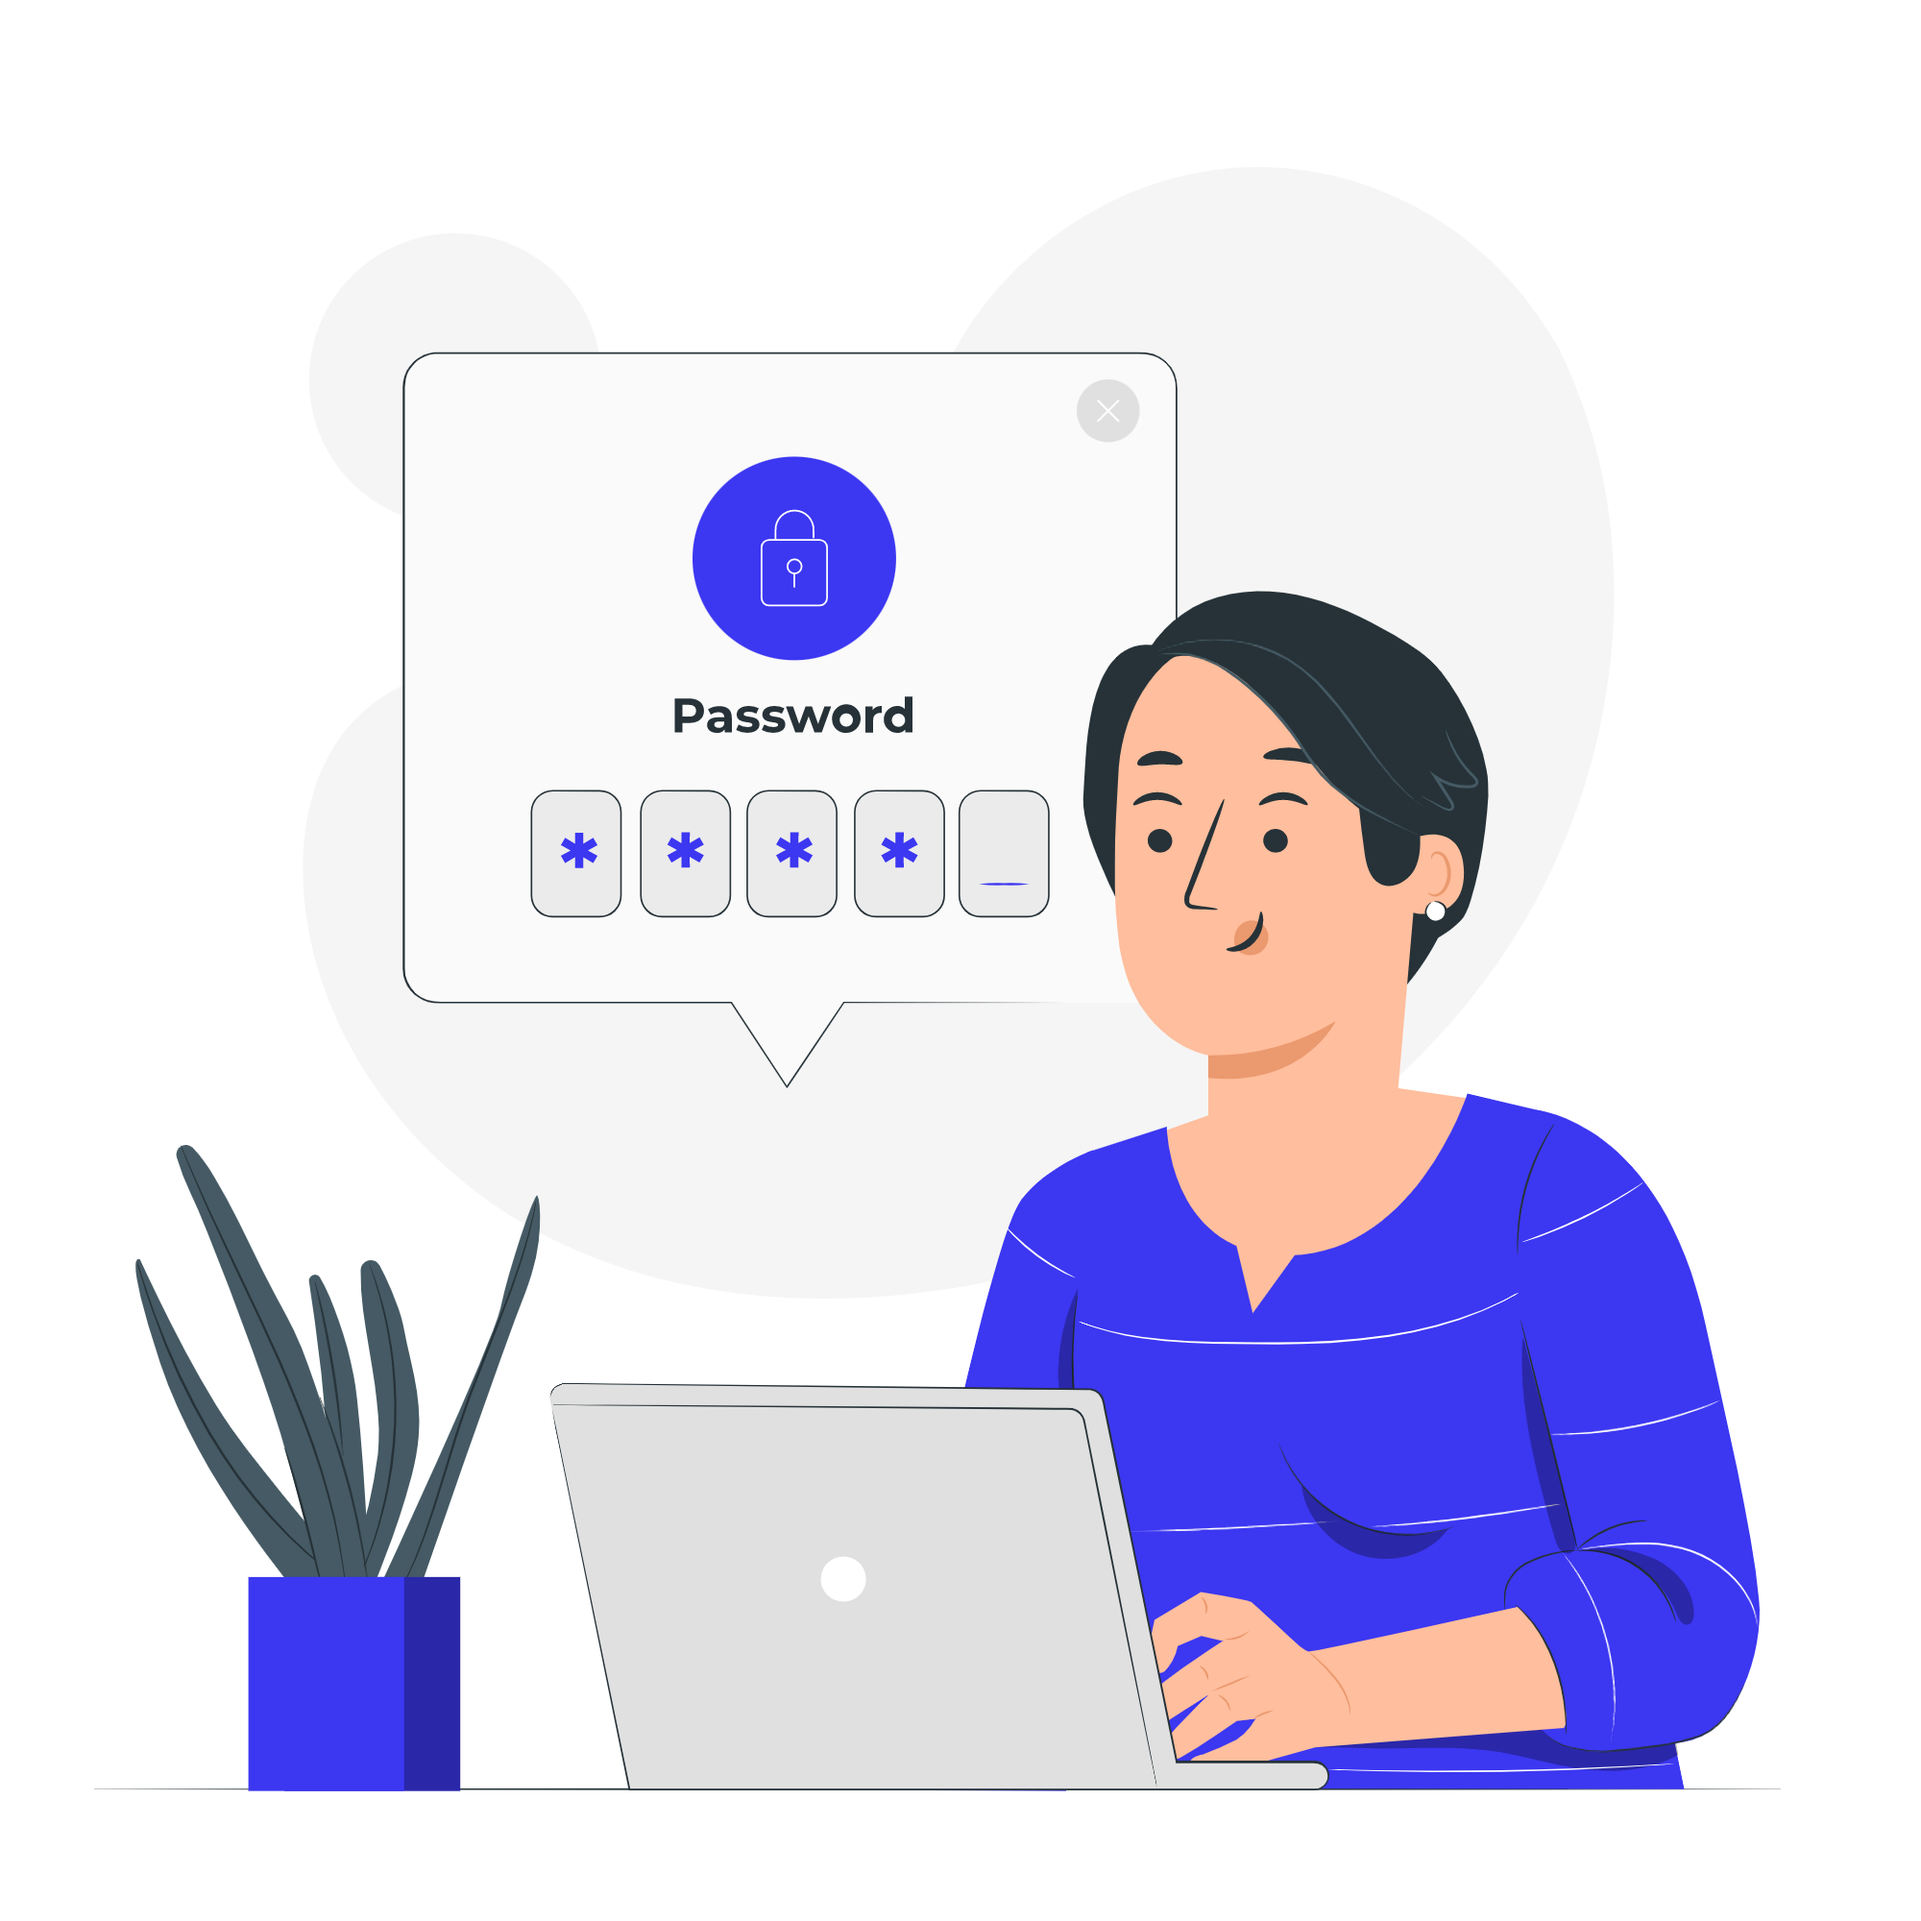
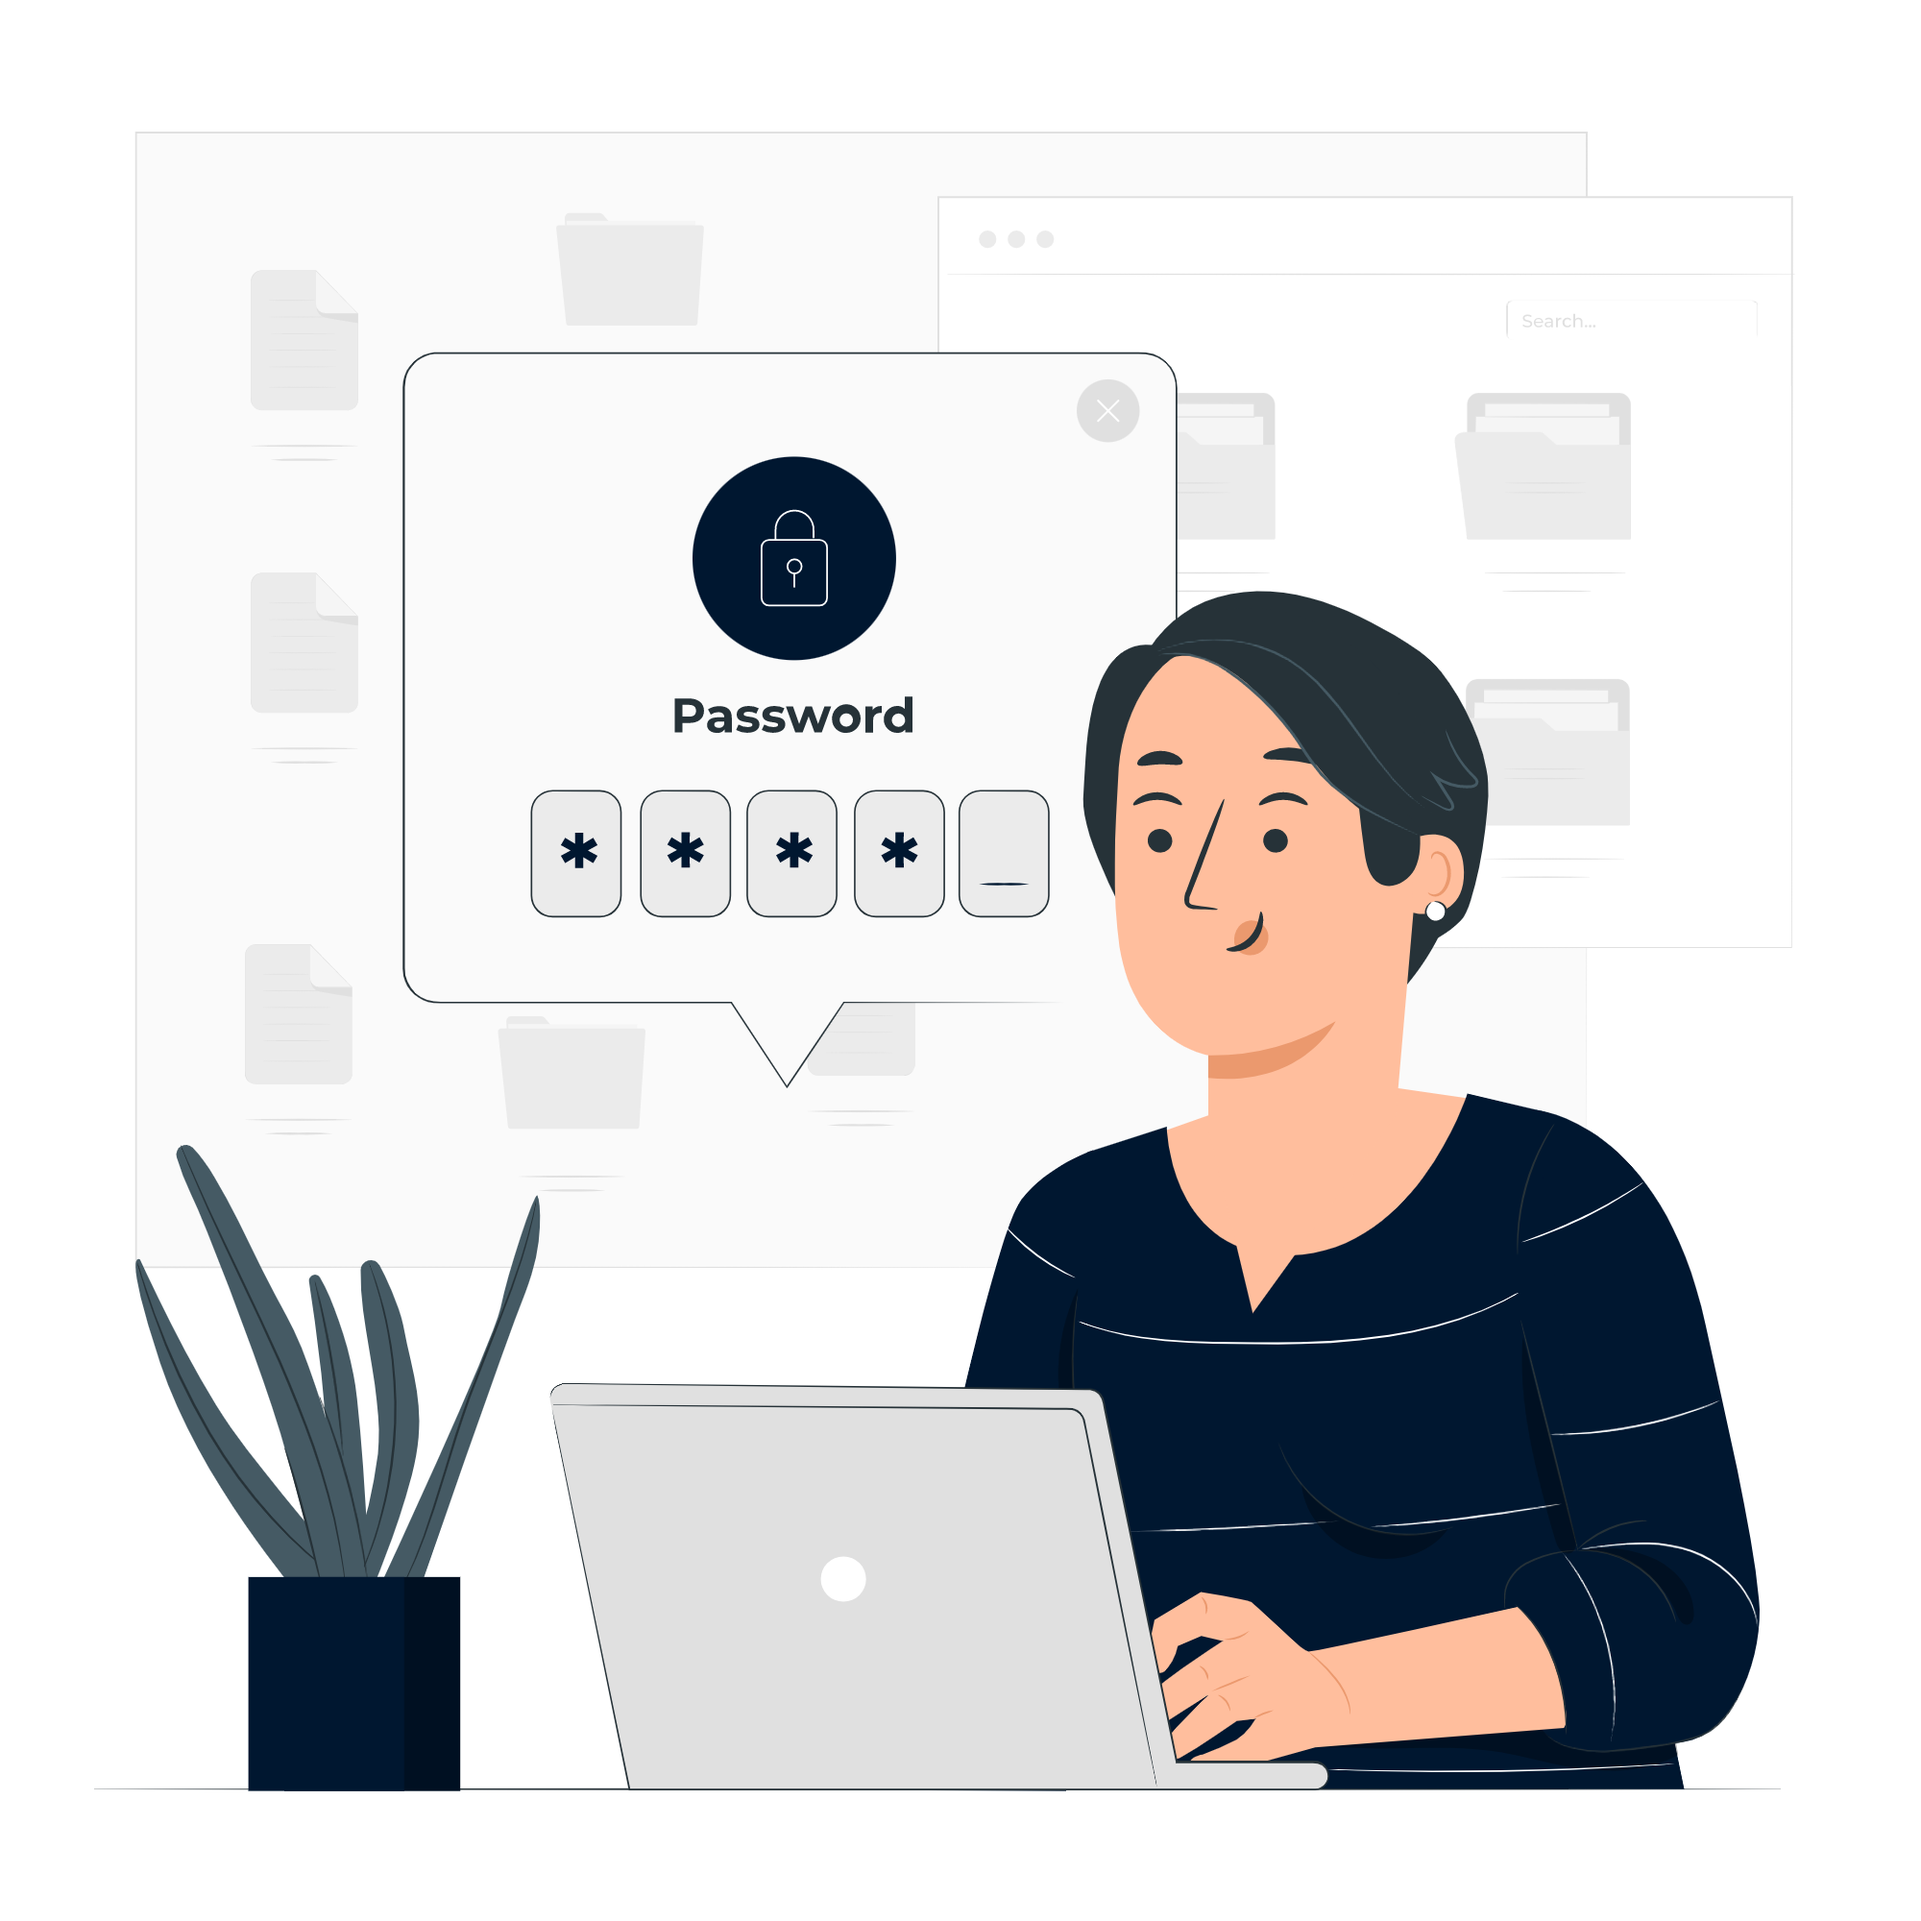
change web theme

diff --git a/css/main.css b/css/main.css
@@ -1,24 +1,24 @@
-.navbar {
-    width: 100%;
-    padding: 1.875rem 1rem;
-    background: #3c37f1;
+:root {
+    --primary-color:#001730   ;
+    --secondary-color : #4AD7D1;
+    --main-color :  #FE4A49;
 }
-.navbar .navbar-nav .nav-item {
-    margin-right: 0.25rem;
-    margin-right: 0.25rem;
-    margin-top: 5px;
+@media (max-width : 991px ){
+    .home {
+        padding-top: 144px;
+    }
 }
-.nav-link, .navbar .navbar-brand {
-    color: white !important;
-    font-size: 16px;
-    font-weight: 600;
-    border-radius: 50px;
+footer i {
+    font-size: 32px;
 }
-.nav-link:hover{
-    background-color: rgba(0, 0, 0, 0.2);
+
+form .btn-primary:hover {
+    background-color: var(--main-color)!important;
+    border-color: var(--main-color)!important;
 }
-.home {
-	padding-top: 111px;
+
+h5, .h5 {
+    font-size: 1.25rem !important;
 }
 .btn {
     /* display: inline-block;
@@ -38,38 +38,30 @@
 }
 .btn-primary {
     color: #fff !important;
-    background-color: #3c37f1 !important;
-    border-color: #3c37f1 !important;
+    background-color: var(--primary-color) !important;
+    border-color: var(--primary-color) !important;
 }
-
 .btn-secondary {
     color: #fff;
-    background-color: #1998ff !important; 
-    border-color: #1998ff !important;
+    background-color: var(--secondary-color) !important; 
+    border-color: var(--secondary-color) !important;
 
 }
 .btn-success  {
-    background-color: #00d663 !important;
-    color: #fff;
-    border-color: #00d663 !important;
+    background-color:transparent !important;
+    color: #fff !important;
+    border-color: transparent !important;
 }
 .btn-success:hover{
-    background-color: #00b051 !important ;
-    border-color: #00b051 !important ;
+    background-color: var(--secondary-color) !important ;
+    border-color: var(--secondary-color) !important ;
 }
-.strong-icon {
-    width: 40px;
-    height: 40px;
-    background-color: #d1d7dc;
-    border-radius: 50%;
+.dropdown-item:active {
+    background-color: var(--primary-color) !important;
 }
-@media (max-width : 991px ){
-    .home {
-        padding-top: 144px;
-    }
-}
+
 .footer {
-    background: #3c37f1 url(../img/footer/footer_bg.svg);
+    background: var(--primary-color) url(../img/footer/footer_bg.svg);
     background-size: cover;
     background-position: left bottom;
 }
@@ -77,24 +69,38 @@
     background-color: rgba(255, 255, 255, 0.07);
     padding: 30px;
 }
-.list-footer li {
-    list-style-type: none;
+.home {
+	padding-top: 111px;
 }
 .list-footer .footer-link {
     text-decoration: none;
     color: white;
 }
-footer i {
-    font-size: 32px;
+.list-footer li {
+    list-style-type: none;
 }
-.icon-border {
+.nav-link, .navbar .navbar-brand {
+    color: white !important;
+    font-size: 16px;
+    font-weight: 600;
+    border-radius: 50px;
+}
+.nav-link:hover{
+    background-color: rgba(0, 0, 0, 0.2);
+}
+.navbar .navbar-nav .nav-item {
+    margin-right: 0.25rem;
+    margin-right: 0.25rem;
+    margin-top: 5px;
+}
+.navbar {
+    width: 100%;
+    padding: 1.875rem 1rem;
+    background: var(--primary-color);
+}
+.strong-icon {
     width: 40px;
     height: 40px;
+    background-color: #d1d7dc;
     border-radius: 50%;
-    background-color: tomato;
 }
-
-h5, .h5 {
-    font-size: 1.25rem !important;
-}
-

diff --git a/index.html b/index.html
@@ -8,6 +8,7 @@
     <link rel='stylesheet' type='text/css' media='screen' href='css/main.css'>
     <link href="https://cdn.jsdelivr.net/npm/bootstrap@5.0.2/dist/css/bootstrap.min.css" rel="stylesheet" integrity="sha384-EVSTQN3/azprG1Anm3QDgpJLIm9Nao0Yz1ztcQTwFspd3yD65VohhpuuCOmLASjC" crossorigin="anonymous">
     <link rel="stylesheet" href="https://cdn.jsdelivr.net/npm/bootstrap-icons@1.7.2/font/bootstrap-icons.css">
+    <link rel="stylesheet" href="https://pro.fontawesome.com/releases/v5.10.0/css/all.css" integrity="sha384-AYmEC3Yw5cVb3ZcuHtOA93w35dYTsvhLPVnYs9eStHfGJvOvKxVfELGroGkvsg+p" crossorigin="anonymous"/>
     <script src='js/main.js'></script>
 </head>
 <body>
@@ -24,7 +25,7 @@
         <div class="flex-grow-1 ms-4 mt-2 me-4">
             <form class="d-flex">
                 <input class="form-control me-2" type="search" placeholder="Search" aria-label="Search">
-                <button class="btn btn-secondary" type="submit">Search</button>
+                <button class="btn btn-secondary" type="submit"><i class="fas fa-search"></i></button>
             </form>
         </div>
         <div class="collapse navbar-collapse justify-content-end" id="navbarSupportedContent">
